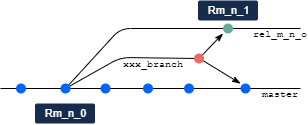
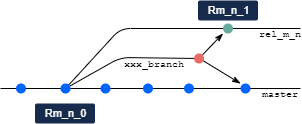
Update release branch name to drop patch number
Former-commit-id: 6ff916af9cd0b98e1d168121102853a5f7c0b1ad

Changed region(s): [[0.0, 0.1694, 1.0, 0.7984], [0.0894, 0.8226, 0.3278, 1.0], [0.6258, 0.0, 0.8642, 0.1694]]

diff --git a/documentation/smg/10_build_release_process.md b/documentation/smg/10_build_release_process.md
@@ -36,7 +36,7 @@ Patch releases should be tested and built through the same build pipeline as the
 2. Bug report issue created in GitHub/Issues documenting how to reproduce
 3. Fix developed on a branch (`xxx_branch`) taken from the *release* tag (`Rm_n_o`)
 4. All tests likely to be affected by changes in Herbert and Horace must be run on developers machine
-5. PR created for merge into Release branch (`rel_m_n_o`) *and* `master` branch. If this is the first release patch, the branch will need to be created
+5. PR created for merge into Release branch (`rel_m_n`) *and* `master` branch. If this is the first release patch, the branch will need to be created
 6. If the build and test of the PR to the Release branch succeeds on all platforms, that build artifact can be released to the target platform as version `m.n.o+1`
 
 If the hotfix is being done out-of-hours the PR can be merged by the developer WITHOUT review provided all tests pass, but the branch should not be deleted and should be reviewed as the earliest opportunity.
